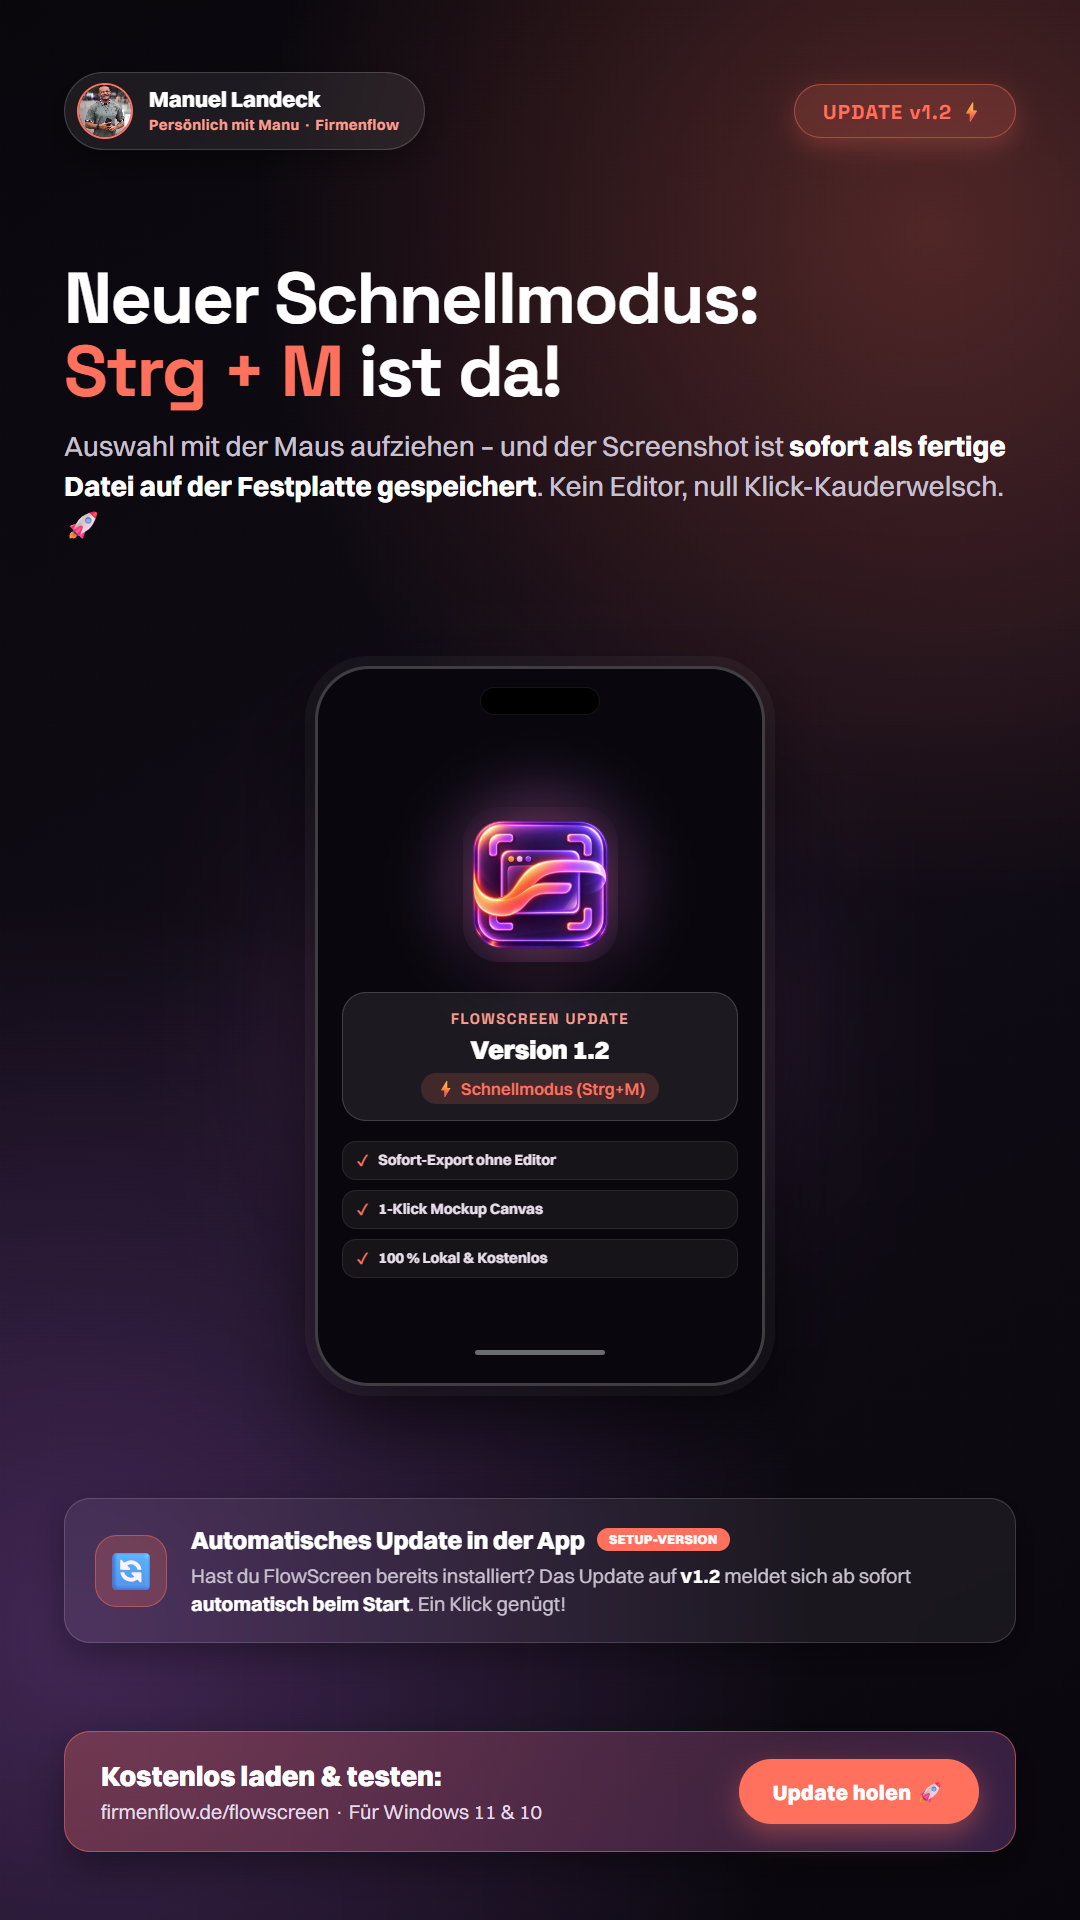
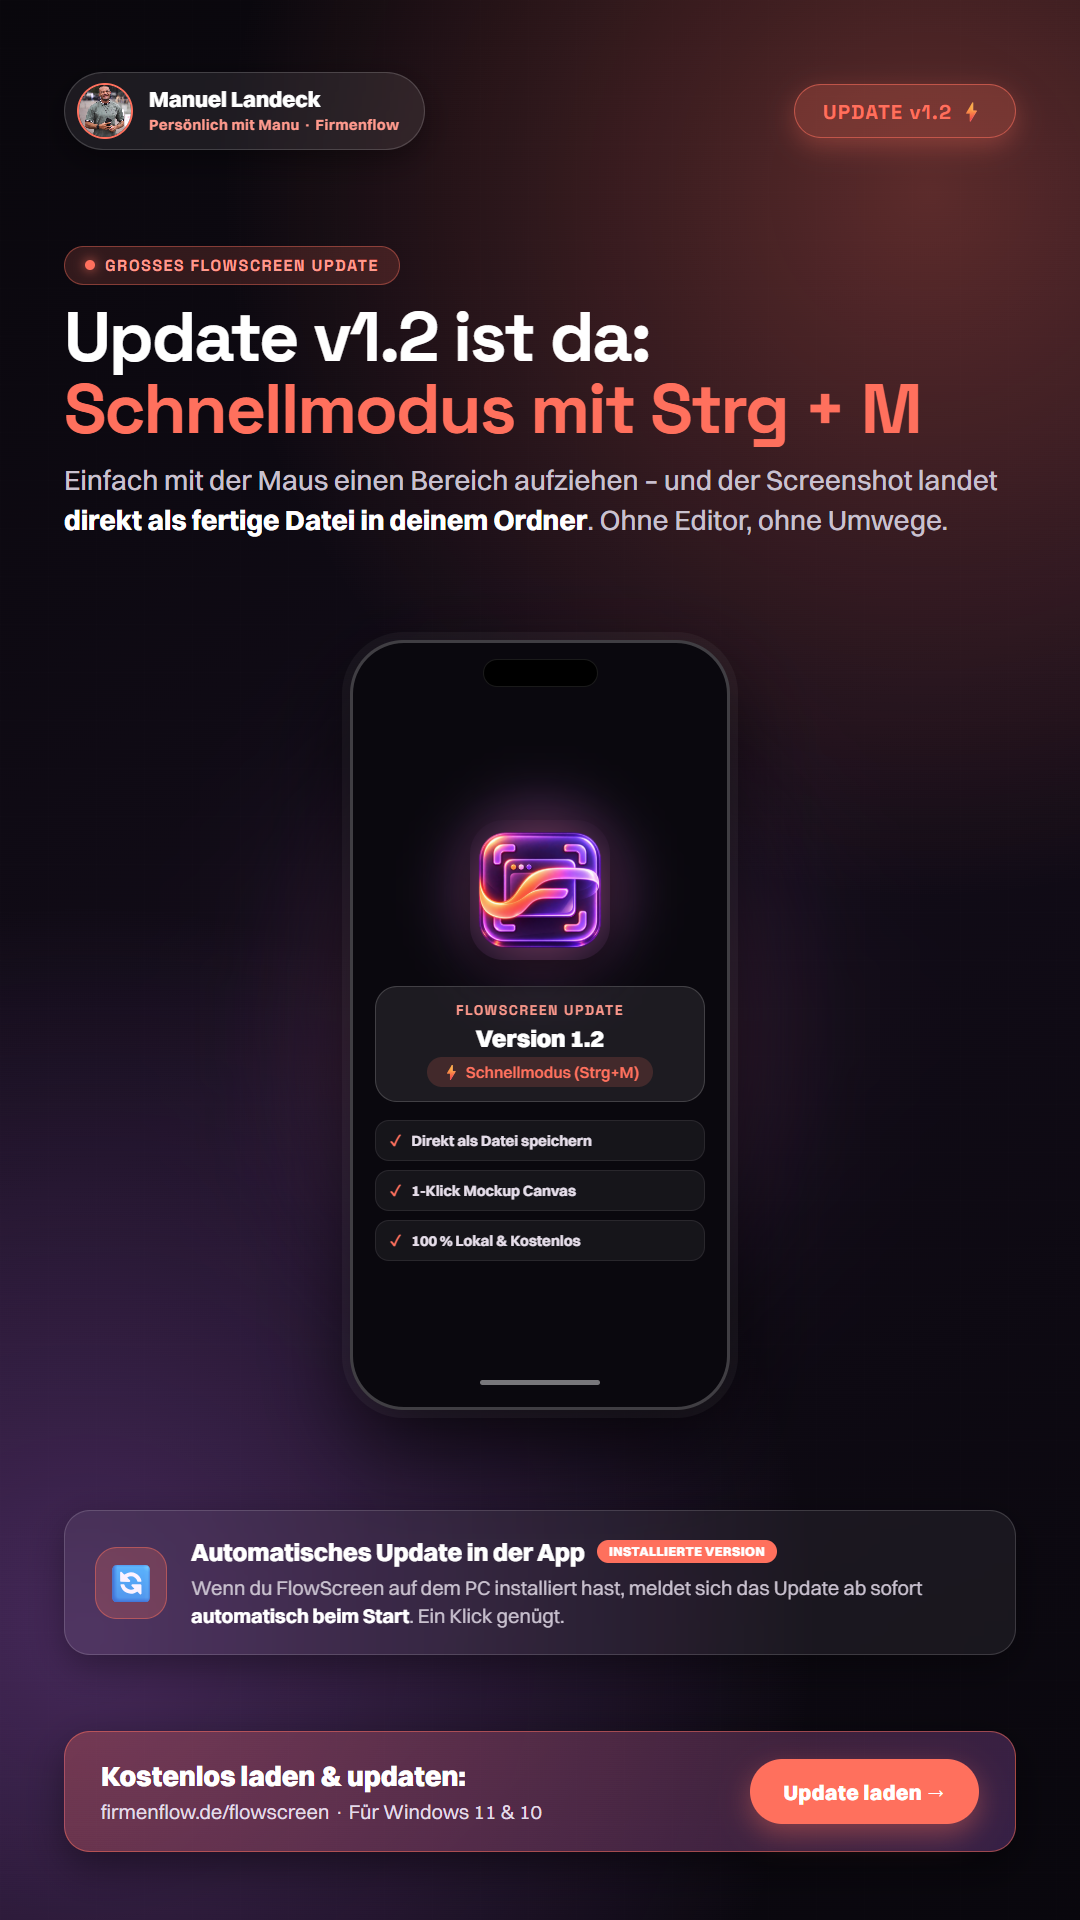
fix(media): Status-Grafik v1.2 verfeinert (Update-Fokus geschärft, natürlicher Text, schlankes Smartphone-Mockup) & Tausendertrennung bei RatgeberZahlen

diff --git a/src/components/ratgeber/RatgeberZahlen.tsx b/src/components/ratgeber/RatgeberZahlen.tsx
@@ -50,7 +50,9 @@ function Kachel({ raw, text, delay, run, armed }: { raw: string; text: string; d
     return () => cancelAnimationFrame(id);
   }, [armed, run, zahl, delay]);
 
-  const anzeige = zahl === null || wert === null ? raw : `${prefix}${wert}${suffix}`;
+  // Tausenderpunkte erhalten: "54.000" darf beim Zaehlen nicht zu "54000" werden.
+  const formatiert = wert === null ? "" : wert.toLocaleString("de-DE");
+  const anzeige = zahl === null || wert === null ? raw : `${prefix}${formatiert}${suffix}`;
 
   return (
     <div className="flex flex-col rounded-3xl bg-white border border-[var(--color-line)] shadow-sm p-5 sm:p-6">
